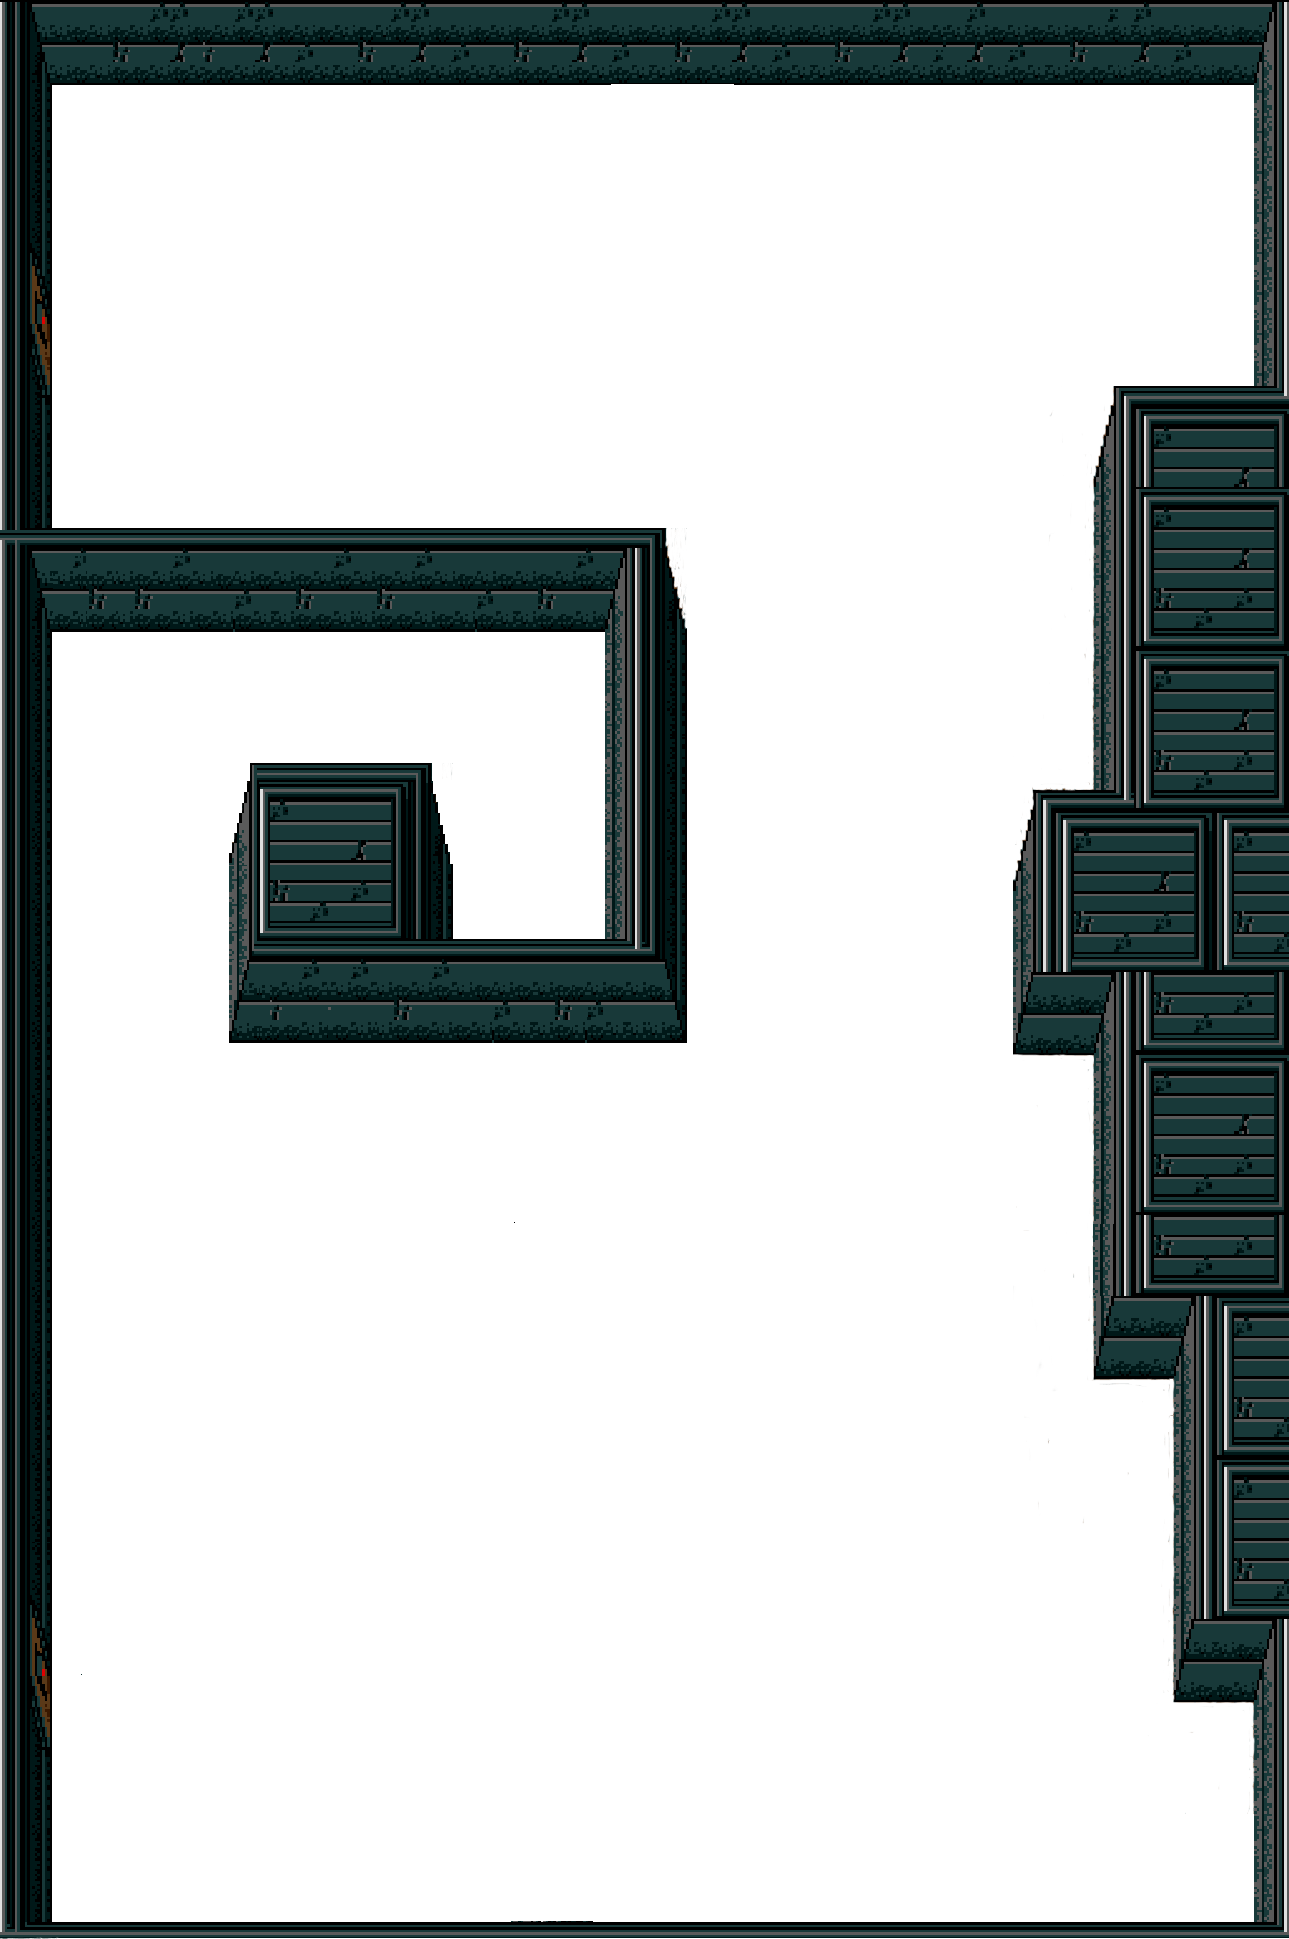
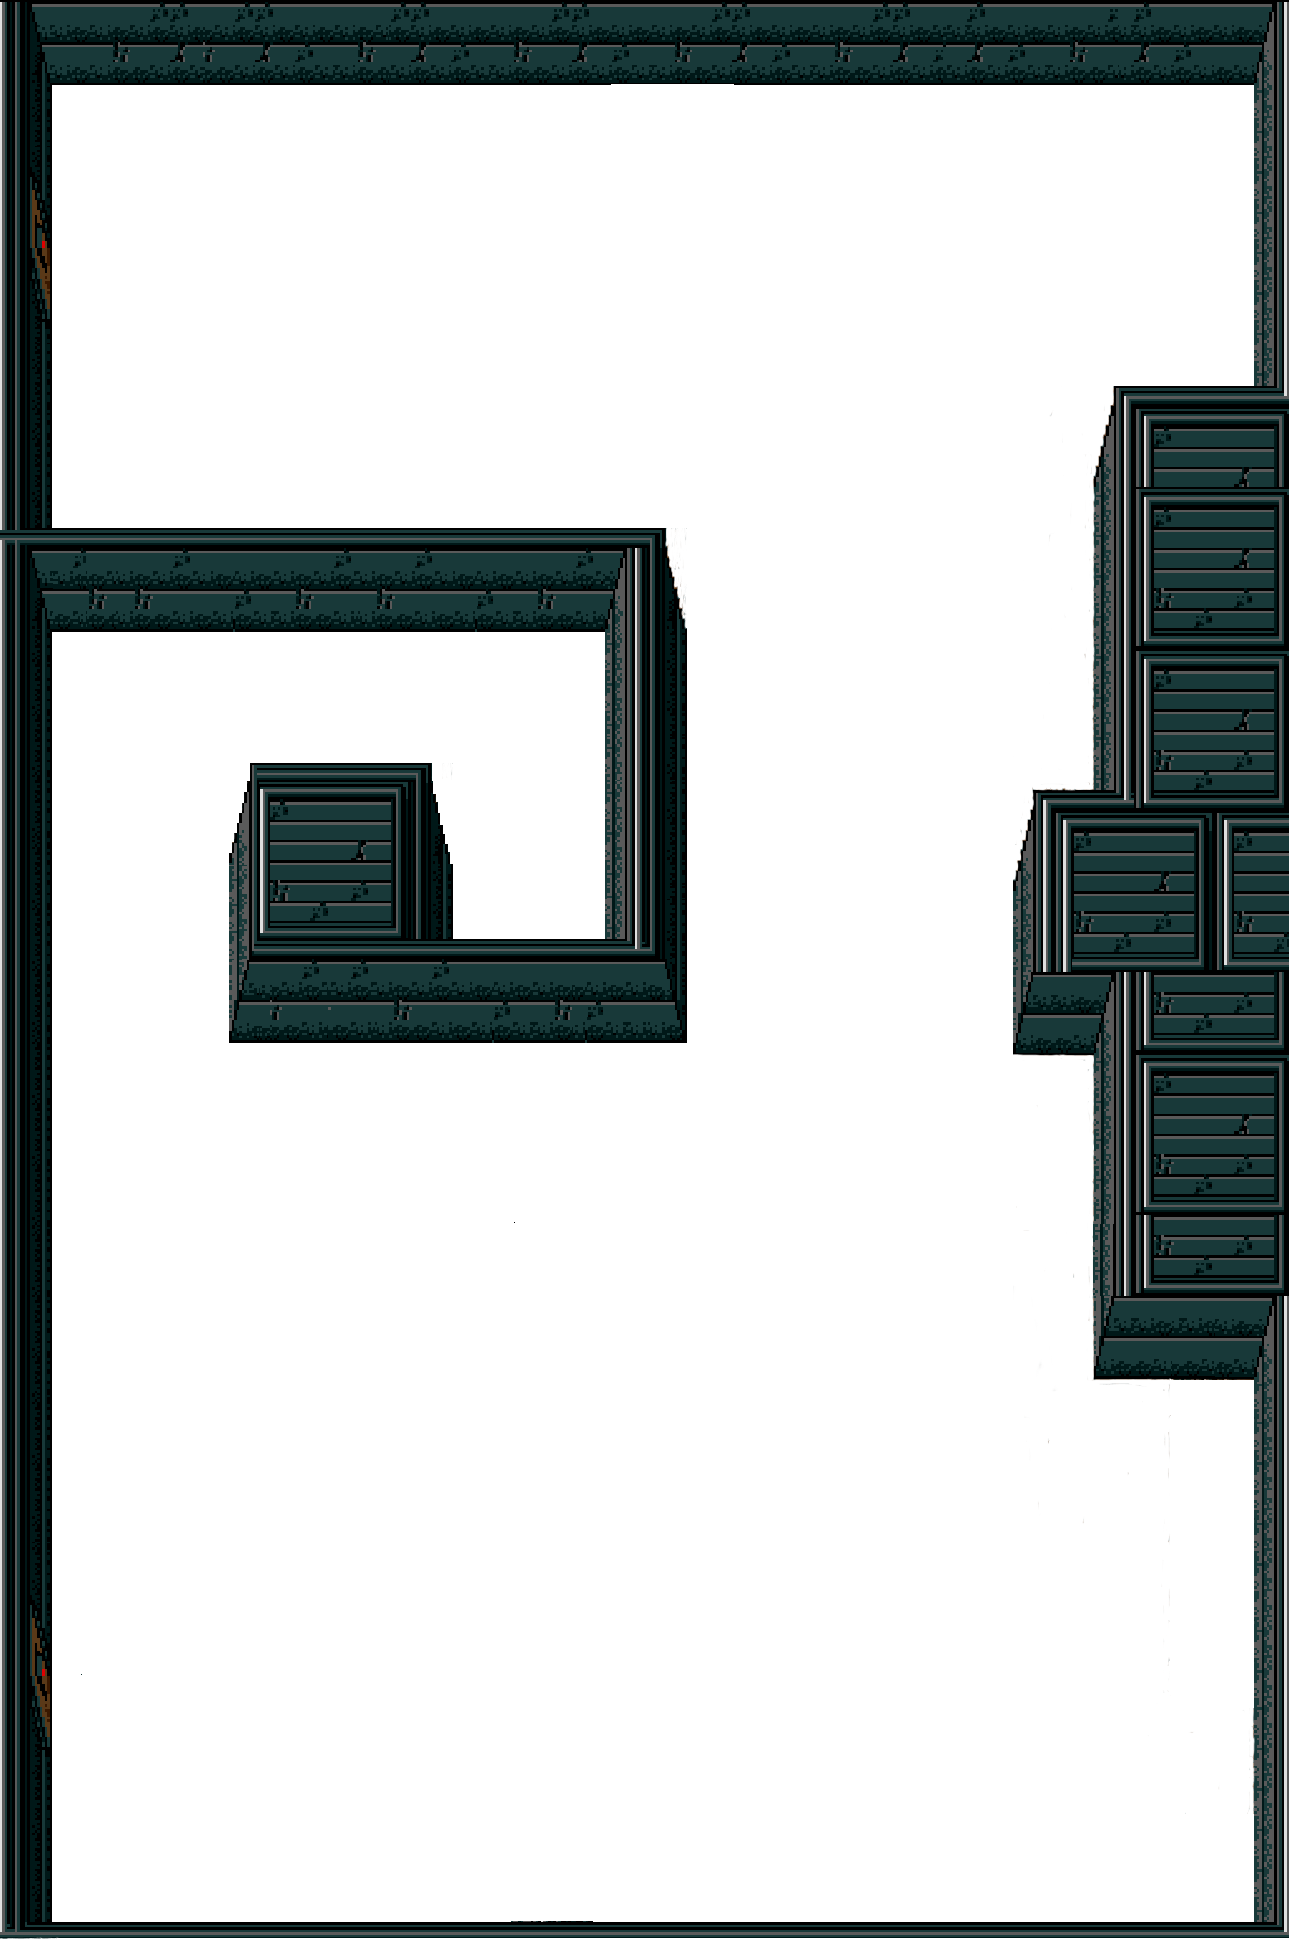
Added wall collision to level 3

Changed region(s): [[0.8999, 0.6498, 1.0, 0.8974], [0.0, 0.0928, 0.0621, 0.2166]]

diff --git a/FinalAssignment/Scripts/states/stage3.ts b/FinalAssignment/Scripts/states/stage3.ts
@@ -53,10 +53,10 @@ module states {
         private guardX: number[] = [50, 230, 610, 630, 630, 415, 415, 250, -110, -175, 230];
         private guardY: number[] = [-1590, -1280, -1585, -870, -200, -1100, -250, -410, -670, -1035, -1035];
         private guardDirection: string[] = ["Down", "Right", "Left", "Down", "Up", "Down", "Up", "Left", "Right", "Down", "Left"];
-        private wallX: number[] = [];
-        private wallY: number[] = [];
-        private wallWidth: number[] = [];
-        private wallHeight: number[] = [];     
+        private wallX: number[] = [-300, 285, -80, -85, 780, 700, 780, -320, -320, 935, -320];
+        private wallY: number[] = [-1210, -1160, -800, -970, -1350, -945, -750, -1720, -1720, -1720, 190];
+        private wallWidth: number[] = [655, 95, 440, 220, 190, 300, 220, 65, 1285, 30, 1285];
+        private wallHeight: number[] = [95, 410, 90, 225, 405, 250, 375, 1940, 60, 1940, 20];     
 
[1 lines of base64/hex data omitted]
         constructor() {

diff --git a/FinalAssignment/Scripts/states/stage3.js b/FinalAssignment/Scripts/states/stage3.js
@@ -37,10 +37,10 @@ var states;
             this.guardX = [50, 230, 610, 630, 630, 415, 415, 250, -110, -175, 230];
             this.guardY = [-1590, -1280, -1585, -870, -200, -1100, -250, -410, -670, -1035, -1035];
             this.guardDirection = ["Down", "Right", "Left", "Down", "Up", "Down", "Up", "Left", "Right", "Down", "Left"];
-            this.wallX = [];
-            this.wallY = [];
-            this.wallWidth = [];
-            this.wallHeight = [];
+            this.wallX = [-300, 285, -80, -85, 780, 700, 780, -320, -320, 935, -320];
+            this.wallY = [-1210, -1160, -800, -970, -1350, -945, -750, -1720, -1720, -1720, 190];
+            this.wallWidth = [655, 95, 440, 220, 190, 300, 220, 65, 1285, 30, 1285];
+            this.wallHeight = [95, 410, 90, 225, 405, 250, 375, 1940, 60, 1940, 20];
             //set the player health to max
             playerHealth = constants.PLAYER_HEALTH;
             //create a game container to store all elements
